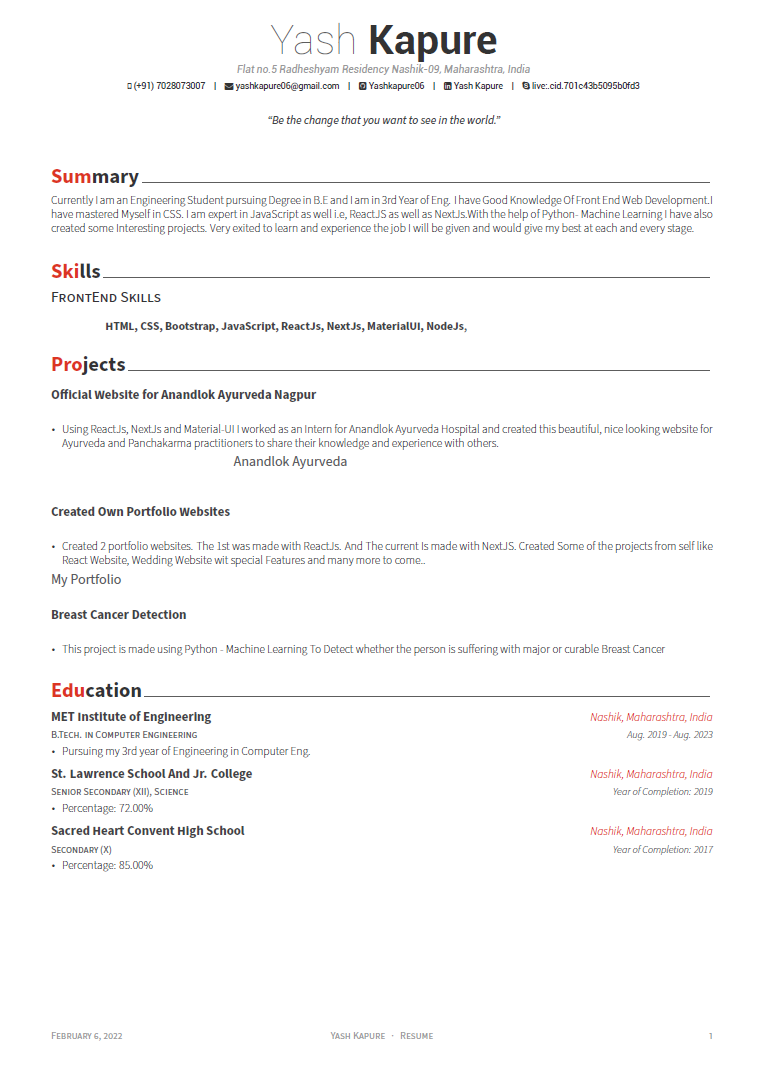
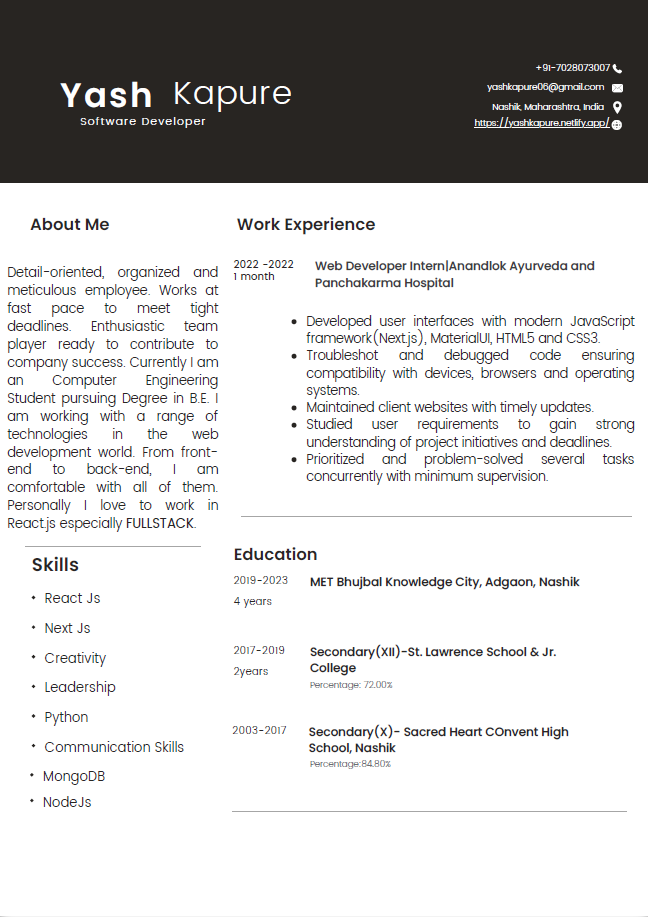
resume

diff --git a/client/src/components/Hero/index.js b/client/src/components/Hero/index.js
@@ -136,7 +136,7 @@ const Hero = () => {
                    src={resume}
                    onClick={() => {
                     
-                    window.open("https://drive.google.com/file/d/10SwlZYdqoMYidECp9idZhodWPkvnKPR8/view?usp=sharing", '_blank');
+                    window.open("https://drive.google.com/file/d/14F-CEVoYC0FgTXeu_lsPjf4qlI4hbe1j/view?usp=sharing", '_blank');
                     
                    }}
                 />
